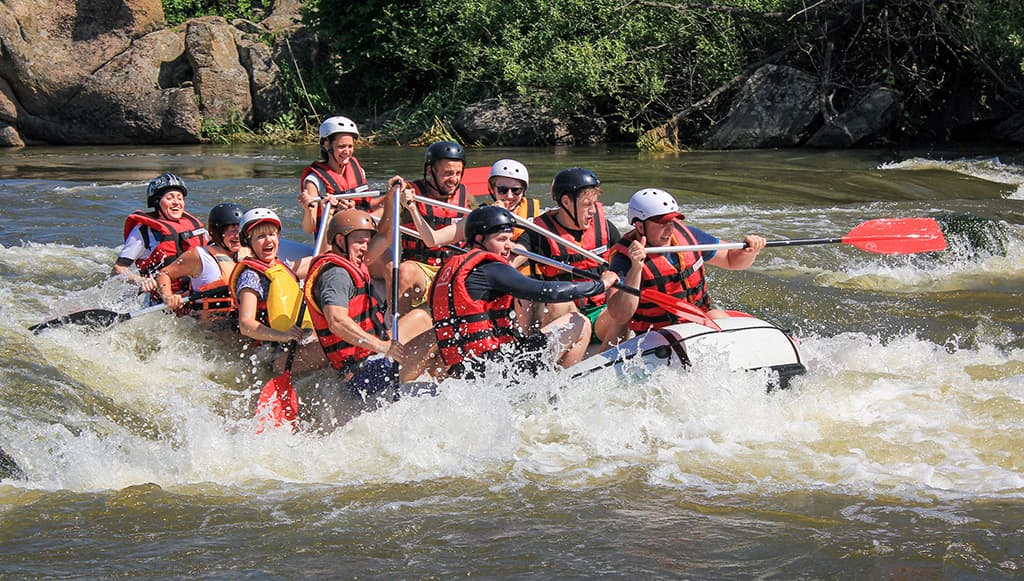
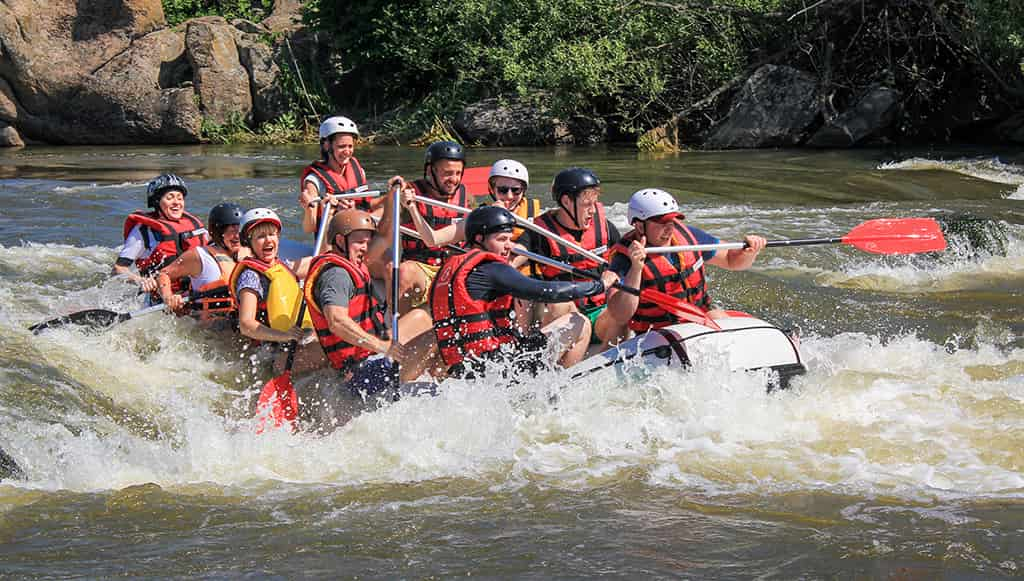
image fixed

diff --git a/wwr/about.html b/wwr/about.html
@@ -6,7 +6,7 @@
     <meta charset="UTF-8">
     <meta name="viewport" content="width=device-width, initial-scale=1.0">
     <meta name="description"
-      content="Whitewater rafting is a type of recreation that involves navigating a non-motorized watercraft down free flowing rivers.">
+        content="Whitewater rafting is a type of recreation that involves navigating a non-motorized watercraft down free flowing rivers.">
     <meta name="author" content="Dira Luke">
     <link rel="stylesheet" href="styles/rafting.css">
 </head>
@@ -23,8 +23,7 @@
     </header>
     <main>
         <div class="hero">
-            <img src="images/back-ground.jpg"
-              alt="Rafters paddling through white-water rapids on a scenic river">
+            <img src="images/back-ground.jpg" alt="Rafters paddling through white-water rapids on a scenic river">
             <h1>Dira Luke Water Rafting</h1>
             <article>
                 <img src="images/rafting_happy_client.jpg" alt="Happy client">
